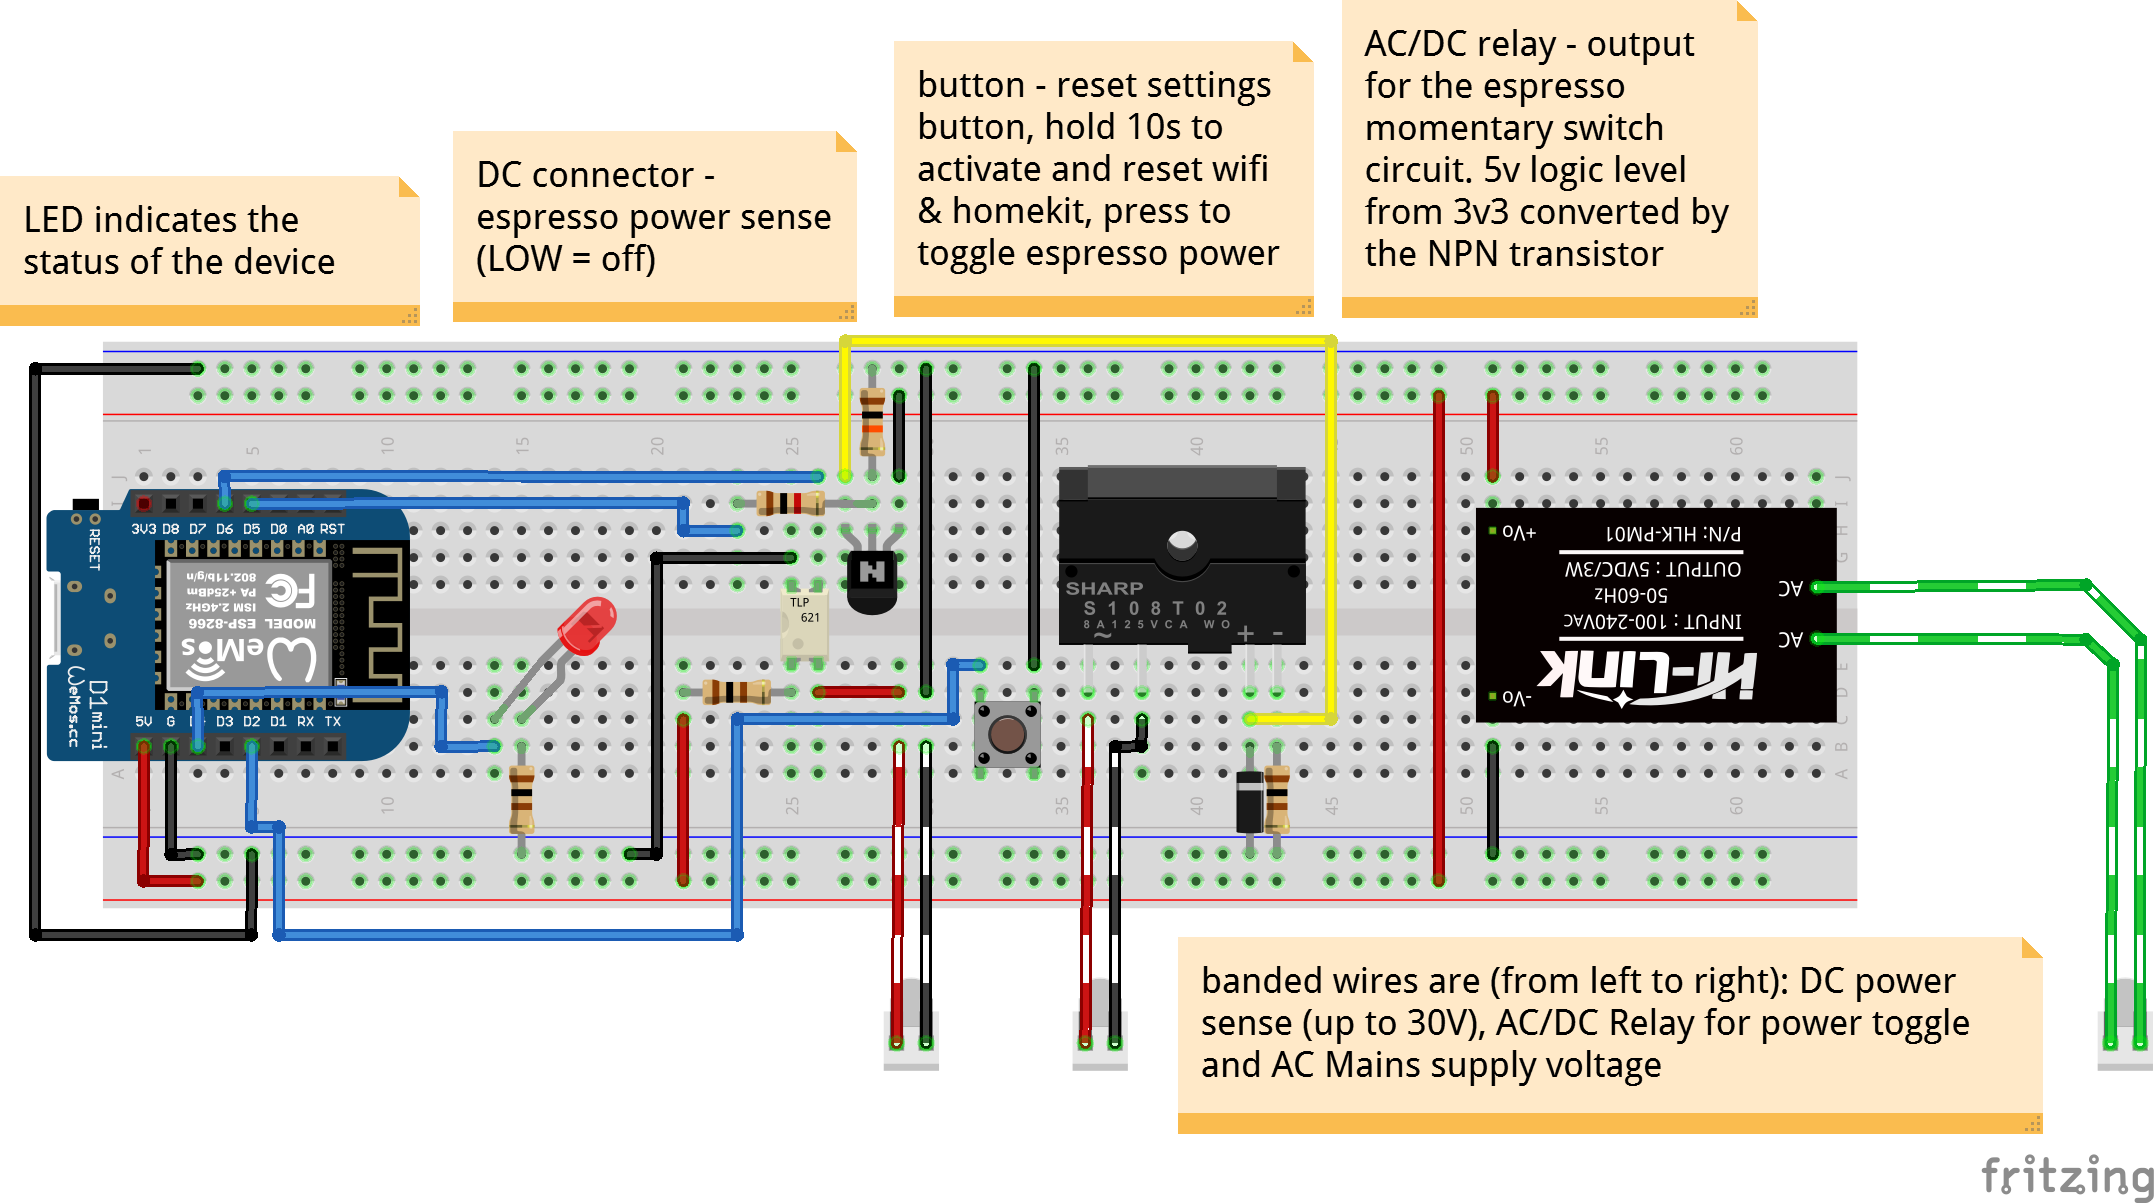
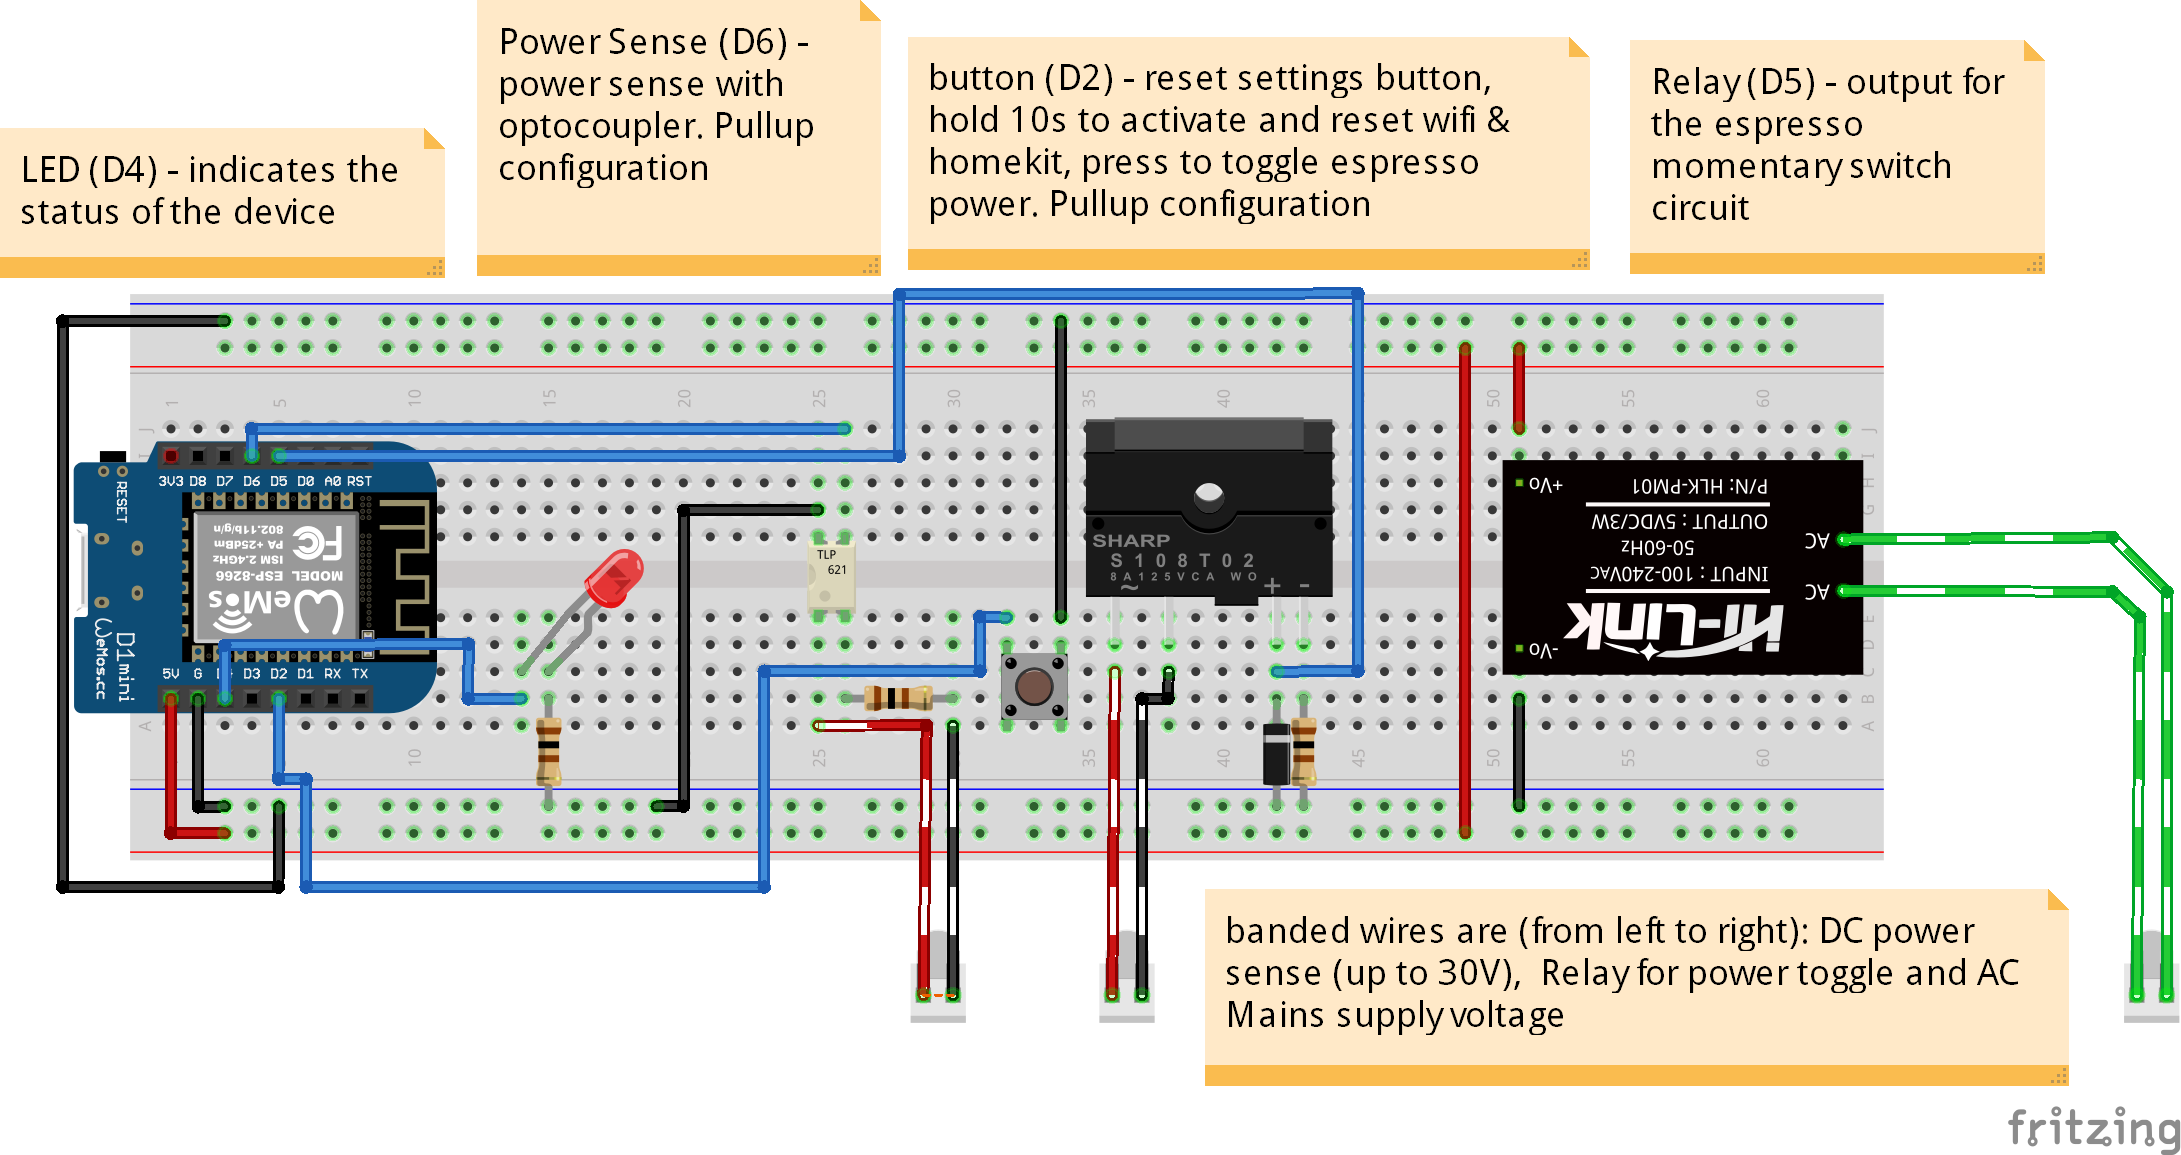
updated diagram

diff --git a/README.md b/README.md
@@ -52,7 +52,7 @@ The serial inteface was configured with the __74880 baud rate__
 ### Typical Circuit Layout ###
 You would need the following parts to complete the build
 * __Wemos D1 Mini <any>__ - any wemos with 4Mb+ flash works (Mini or Mini Pro)
-* __Optocoupler + 330 Resistor__ - used for powersense. The Rancilio Silvia 12V power indicator circuit it very noisy, we would use the optocoupler to provide galvanic isolation between the controller and the espresso machine
+* __Optocoupler + 330 Resistor (D6)__ - used for powersense. The Rancilio Silvia 12V power indicator circuit it very noisy, we would use the optocoupler to provide galvanic isolation between the controller and the espresso machine
 * __Relay__ (3.3V level or Relay 5v + NPN transistor and a couple of passive jellybeans) - this needs to switch the 12v noisy circuit. MOSFET will also do, but I'd prefer those to be galvanicaly isolated
 * __1 pull-down resistor (33k is ok)__ - power sense circuit is LOW by default and HIGH when 12V power indicator circuit energises the optocoupler
 * __1 Status LED + 330 Resistor__ - this is just a status LED. Fast blink = starting up, Slow blink - AP mode, No blink - connected to network 
